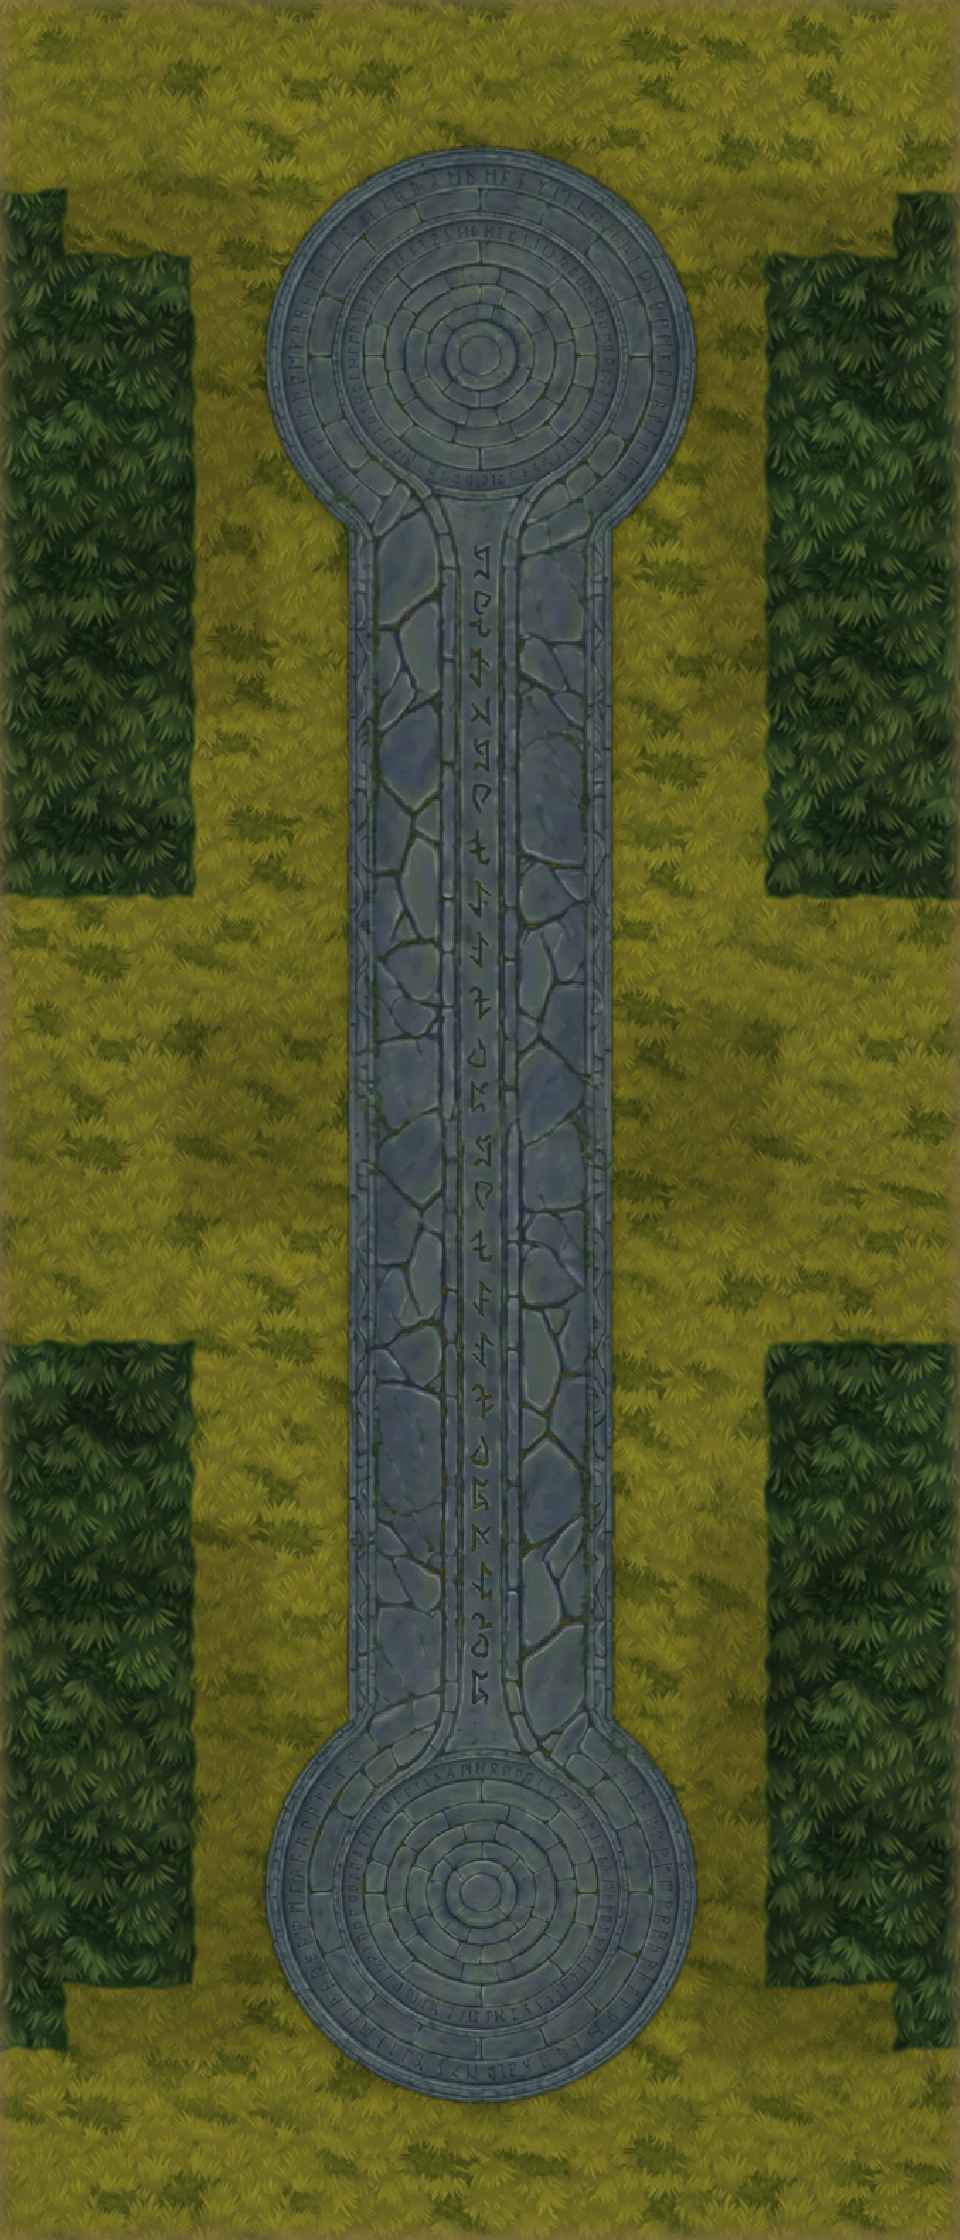
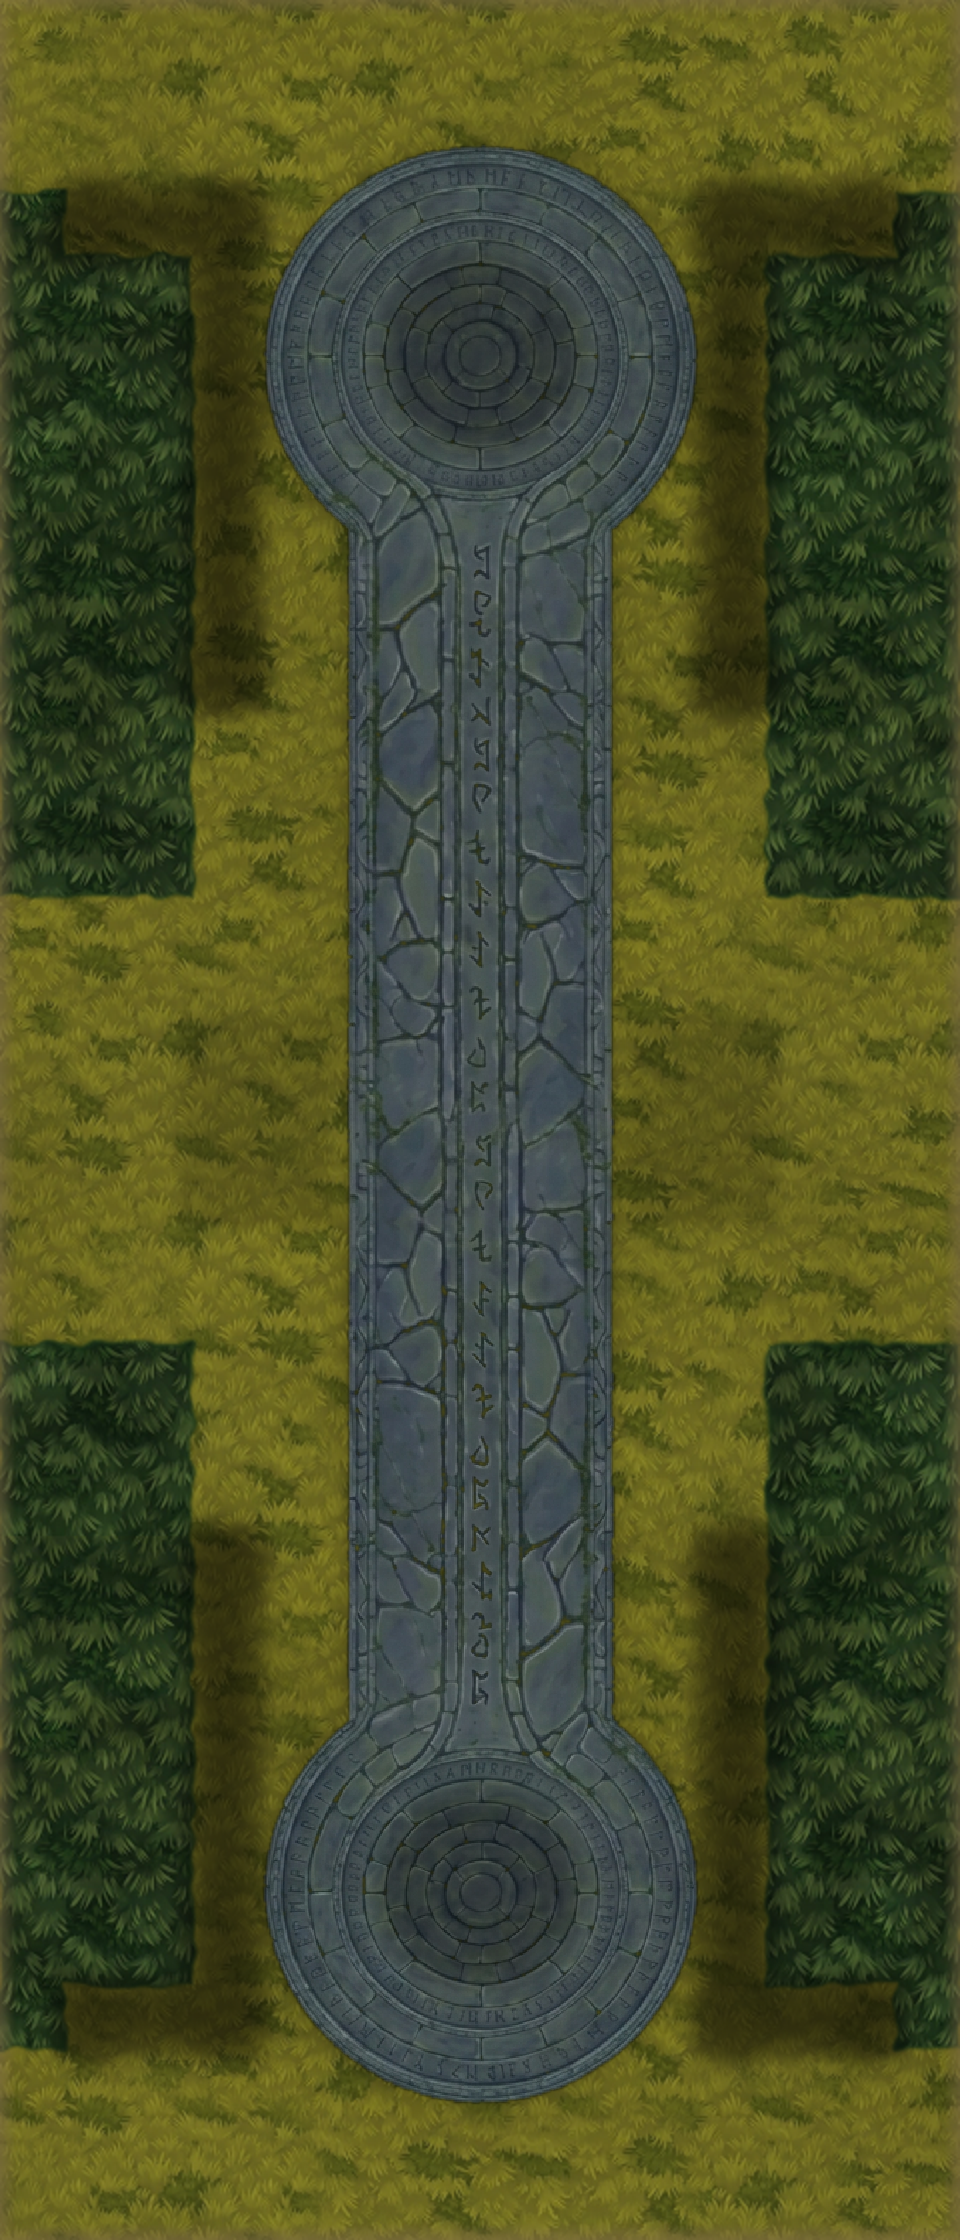
Kartdetaljer: torntorgens runor blinkar i lagfärgen när tornet skjuter (TowerRunes), mjuka kontaktskuggor inbakade i markbilden (v15) och inga hårda fyrkantiga murskuggor på den målade marken; bara bild (Rickard 2026-11-02)
Claude-Session: https://claude.ai/code/session_01M7eBmsdbX5dujjbvcNASSn

diff --git a/Assets/BAM/Art/Arena.cs b/Assets/BAM/Art/Arena.cs
@@ -51,6 +51,7 @@ namespace BAM.Art
             // bushes), baked offline exactly like the old game painted it (bam-work/art/ground/bake.py); only for that map's size
             Texture2D painted = !info.Island && w == 15 && h == 35 ? Resources.Load<Texture2D>("BAMArt/Arena/T_BAM_ArenaGround_v1_2") : null;
             if (painted != null) PaintedGround(root, painted, w, h);
+            if (painted != null) TowerRunes.Build(root);
             Mesh pillarM = Props.Mesh("wallkit_pillar"), beamM = Props.Mesh("wallkit_straight");
             bool kit = pillarM != null && beamM != null && !info.Island;
             Texture2D rockPic = info.Island ? null : Resources.Load<Texture2D>("BAMArt/Arena/T_BAM_Pillar_C");
@@ -72,8 +73,9 @@ namespace BAM.Art
 
                     if (code == TWall && !inRock && kit)
                     {
-                        // Rickard's Meshy wall kit stands here (WallKit below); only the contact shadow on the ground
-                        marks.Color(Pal.ShadowSoft).Face(new Vector3(x0 - 0.2f, 0.012f, z0 - 0.2f), new Vector3(x0 - 0.2f, 0.012f, z1 + 0.2f), new Vector3(x1 + 0.2f, 0.012f, z1 + 0.2f), new Vector3(x1 + 0.2f, 0.012f, z0 - 0.2f));
+                        // Rickard's Meshy wall kit stands here (WallKit below); only the contact shadow on the ground, which the BAM
+                        // arena's painted ground already carries, soft (bam-work/art/karta/detaljer/bake_skuggor.py, 2026-11-02)
+                        if (painted == null) marks.Color(Pal.ShadowSoft).Face(new Vector3(x0 - 0.2f, 0.012f, z0 - 0.2f), new Vector3(x0 - 0.2f, 0.012f, z1 + 0.2f), new Vector3(x1 + 0.2f, 0.012f, z1 + 0.2f), new Vector3(x1 + 0.2f, 0.012f, z0 - 0.2f));
                     }
                     else if (code == TWall && !inRock)
                     {
@@ -630,6 +632,85 @@ namespace BAM.Art
 
     /// <summary>On the arena root: the meshes and materials Arena and Island made for this one arena. Destroying a GameObject
     /// leaves them alive (they are DontSave), so every match and the tutorial's bridge rebuild would keep the old arena's.</summary>
+    /// <summary>
+    /// The carved runes round each tower's plaza light up briefly in the tower's team colour when that tower fires, and only
+    /// then (Rickard 2026-11-01: glowing runes all the time distracted from the fight). Two additive quads over the painted
+    /// ground, one per plaza, with the runes cut out of the ground picture (bam-work/art/karta/detaljer/make_runmask.py);
+    /// each is switched off while dark, so it costs nothing between shots.
+    /// </summary>
+    sealed class TowerRunes : MonoBehaviour
+    {
+        static TowerRunes live;
+        static readonly string[] Pics = { "T_BAM_TowerRunes_Top", "T_BAM_TowerRunes_Bottom" };
+        // each picture is 448 px (7 tiles at 64 px a tile) round its plaza's centre in the 960 x 2240 ground picture: (480, 361) and (480, 1889)
+        static readonly Vector2[] Centre = { new Vector2(7.5f, 35f - 361f / 64f), new Vector2(7.5f, 35f - 1889f / 64f) };
+        const float Size = 7f, Peak = 0.8f, Rise = 0.06f, Fade = 0.55f;
+        readonly Renderer[] quad = new Renderer[2];
+        readonly Material[] mat = new Material[2];
+        readonly float[] age = { 99f, 99f };
+        readonly Color[] tint = new Color[2];
+
+        internal static void Build(GameObject root)
+        {
+            TowerRunes tr = null;
+            for (int i = 0; i < 2; i++)
+            {
+                Texture2D t = Resources.Load<Texture2D>("BAMArt/Arena/" + Pics[i]);
+                if (t == null) continue;
+                if (tr == null) tr = root.AddComponent<TowerRunes>();
+                Vector2 c = Centre[i];
+                float s = Size * 0.5f, y = 0.014f;
+                var mesh = new Mesh { name = Pics[i] };
+                mesh.vertices = new[] { new Vector3(c.x - s, y, c.y - s), new Vector3(c.x - s, y, c.y + s), new Vector3(c.x + s, y, c.y + s), new Vector3(c.x + s, y, c.y - s) };
+                mesh.uv = new[] { new Vector2(0f, 0f), new Vector2(0f, 1f), new Vector2(1f, 1f), new Vector2(1f, 0f) };
+                mesh.normals = new[] { Vector3.up, Vector3.up, Vector3.up, Vector3.up };
+                mesh.triangles = new[] { 0, 1, 2, 0, 2, 3 };
+                mesh.RecalculateBounds();
+                var m = ArtMaterials.Instance(ArtMaterials.UnlitAdd);
+                m.SetTexture(ArtMaterials.BaseMap, t);
+                m.mainTexture = t;
+                m.SetColor(ArtMaterials.BaseColor, Color.black);
+                GameObject go = Arena.Add(root, Pics[i], mesh, m, false);
+                go.isStatic = false;
+                tr.quad[i] = go.GetComponent<Renderer>();
+                tr.quad[i].enabled = false;
+                tr.mat[i] = m;
+            }
+            if (tr != null) { tr.enabled = false; live = tr; }
+        }
+
+        /// <summary>The tower at <paramref name="at"/> fired: its plaza's runes flash in <paramref name="c"/>.</summary>
+        internal static void Pulse(Vector3 at, Color c)
+        {
+            if (live == null) return;
+            int i = Mathf.Abs(at.z - Centre[0].y) <= Mathf.Abs(at.z - Centre[1].y) ? 0 : 1;
+            if (live.quad[i] == null) return;
+            live.age[i] = 0f;
+            live.tint[i] = c;
+            live.quad[i].enabled = true;
+            live.enabled = true;
+        }
+
+        void Update()
+        {
+            bool any = false;
+            for (int i = 0; i < 2; i++)
+            {
+                if (quad[i] == null || !quad[i].enabled) continue;
+                age[i] += Time.deltaTime;
+                if (age[i] >= Rise + Fade) { quad[i].enabled = false; continue; }
+                float k = age[i] < Rise ? age[i] / Rise : 1f - (age[i] - Rise) / Fade;
+                k = Mathf.Clamp01(k) * Peak;
+                Color c = tint[i];
+                mat[i].SetColor(ArtMaterials.BaseColor, new Color(c.r * k, c.g * k, c.b * k, 1f));
+                any = true;
+            }
+            if (!any) enabled = false;
+        }
+
+        void OnDestroy() { if (live == this) live = null; }
+    }
+
     sealed class ArenaOwned : MonoBehaviour
     {
         internal readonly System.Collections.Generic.List<Object> Items = new System.Collections.Generic.List<Object>(128);

diff --git a/Assets/BAM/Game/MatchViews.cs b/Assets/BAM/Game/MatchViews.cs
@@ -574,6 +574,7 @@ namespace BAM.Game
                     // Bonk's club has no shot: it lands e.V s later as an Explosion of ProjKind.BonkClub (cracks and dust)
                     if ((ProjKind)e.Kind == ProjKind.BonkClub) { if (heard) Sound(SfxId.BonkSlamWindup, a, e.Big ? 0.8f : 0.55f); break; }
                     pending.Add(new Pending { A = a.Serial, Src = a, Tgt = e.B, Kind = (ProjKind)e.Kind });
+                    if (a.Kind == UnitKind.Tower) ArtKit.TowerFired(Coords.Of(a), Side(a.Team)); // its plaza's runes flash
                     if (!heard) break;
                     // a tower's shot is heard only when it aims at you (Speltest), sharper from its third shot in a row on you, as its
                     // damage ramps up (Speltest towerHot at towerStreak 2; the rules' TowerRamp resets after TowerRampReset)

diff --git a/Assets/BAM/Art/ArtKit.cs b/Assets/BAM/Art/ArtKit.cs
@@ -439,6 +439,9 @@ namespace BAM.Art
         }
 
         /// <summary>One-shot effect at a world position. size scales it (1 = default for that kind).</summary>
+        /// <summary>A tower fired: the carved runes round its plaza glow briefly in its team's light (Rickard 2026-11-02).</summary>
+        public static void TowerFired(Vector3 tower, int team) => TowerRunes.Pulse(tower, Pal.Get(Pal.TeamLight(team)));
+
         public static void PlayFx(FxKind kind, Vector3 position, float size = 1f, int team = 0, int hero = -1)
         {
             if (!ready) return;

diff --git a/Docs/LICENSES.md b/Docs/LICENSES.md
@@ -48,7 +48,8 @@ Source: graphics thread hand-over 2 (`bam-work/art/HANDOVER-2.md`), byte-identic
 | `Resources/BAMArt/Wolf/Wolf.fbx`, `Wolf_Tex.jpg` (2) | Fenn's spectral wolf, rigged on four legs with its walk (the game's wolf; the still `fenn_wolf` is only a fallback) | Old Speltest `ABC2/Resources/KovaForms/Wolf.fbx` and `Textures/Wolf.png` (2026-10-18/19); the picture scaled to 1024 JPEG by us (2026-10-26) | Rickard via Meshy AI (paid plan), rigged and animated in Meshy | Rickard's own | Courtesy only |
 | `Models/Bonk/Bonk.fbx`, `Bonk_Tex.jpg`, `Resources/BAMArt/Props/bonk_club.bytes`, `bonk_club.jpg` (4) | Bonk (hero 8) and his club; since 2026-10-30 also `UI/Resources/BAM/Menu/special_bonk.png` and `passive_bonk.png`, his skill icons made by Rickard himself (order O-025) | Rickard's Tripo models (2026-10-26); body rigged by Rickard in Mixamo, pelt weights moved to the chest by us; club converted from GLB to the Props format by us | Rickard via Tripo AI (paid plan) + Adobe Mixamo | Rickard's own; Mixamo rig free for commercial use | Courtesy only |
 | `Models/{Hilde,Oaken}/<Hero>.fbx`, `<Hero>_Tex.jpg`, `Models/{Hilde,Oaken}/Anim/*.fbx` (14 clips), `Resources/BAMArt/Props/hilde_cannon.{bytes,jpg}`, `hilde_keg.{bytes,jpg}`, `UI/Resources/BAM/Menu/portrait_{hilde,oaken}.png`, `special_hilde.png`, `passive_hilde.png` (Speltest `AbcUI/ui_abilities_hilde_{special,passive}.png`, copied 2026-10-29) | Hilde (hero 9) and Oaken (hero 10), her cannon and keg, their portraits (2026-10-28) | Copied from Rickard's live Speltest project (Mixamo rigs and clips; portraits rendered by us from the models) | Oaken's body: Rickard's own Meshy stone golem (Speltest thread OAKEN 2026-10-17, body re-done 2026-10-24), rigged on Mixamo; his Walk/Run/Hit are Mixamo Mutant clips, the rest Mixamo. Hilde's clips: Mixamo (Simon's #258 plan, 2026-10-18). Hilde's mesh, her texture and the cannon and keg props: made by Rickard himself in Meshy (Rickard 2026-10-28 20:55 CET) | Rickard's own, made on his paid Meshy account (Rickard confirmed 2026-10-28) | None |
-| `Resources/BAMArt/Arena/T_BAM_ArenaGround_v1_2.png` (1) | The arena floor of the BAM v1.2 map in one picture. Since 2026-11-01 (O-041 stone road with carved, unlit runes and round tower plazas, 960x2240, 64 px per tile): the road comes from Rickard's own Gemini pictures (`bam-work/art/karta/runvag/`), blended with the old baked grass by `bam-work/art/karta/runvag/build_ground.py`. Earlier version: | Baked offline by the arena look thread (`bam-work/art/ground/bake.py`, a port of the old game's `View3DMapArena.ArenaGround11Paint`) from Rickard's Grass, Road2 and Moss tiles above and his Dirt tile (`T_BAM_Ground_Dirt.png`, old register `LICENSES/assets.csv` row 446, not in the build) | Rickard (tiles), baked by us | Same as the arena textures above. | No |
+| `Resources/BAMArt/Arena/T_BAM_ArenaGround_v1_2.png` (1) | The arena floor of the BAM v1.2 map in one picture. Since 2026-11-01 (O-041 stone road with carved, unlit runes and round tower plazas, 960x2240, 64 px per tile): the road comes from Rickard's own Gemini pictures (`bam-work/art/karta/runvag/`), blended with the old baked grass by `bam-work/art/karta/runvag/build_ground.py`; 2026-11-02 (v15) soft contact shadows under walls, pillars and tower bases baked in by `bam-work/art/karta/detaljer/bake_skuggor.py`. Earlier version: | Baked offline by the arena look thread (`bam-work/art/ground/bake.py`, a port of the old game's `View3DMapArena.ArenaGround11Paint`) from Rickard's Grass, Road2 and Moss tiles above and his Dirt tile (`T_BAM_Ground_Dirt.png`, old register `LICENSES/assets.csv` row 446, not in the build) | Rickard (tiles), baked by us | Same as the arena textures above. | No |
+| `Resources/BAMArt/Arena/T_BAM_TowerRunes_{Top,Bottom}.png` (2) | The tower plazas' rune masks that flash in the team colour when the tower fires | Cut from the arena floor above by `bam-work/art/karta/detaljer/make_runmask.py`, 2026-11-02 | Rickard (tiles), baked by us | Same as the arena textures above. | No |
 | `Resources/BAMArt/Props/wallkit_{pillar,straight}.{bytes,jpg}` (4) | Arena wall kit (pillar and straight wall) | Since 2026-11-01: Rickard's own Tripo wall and pillar for the rune road (`bam-work/art/karta/murar-runvag/kit-v1/`, converted by glb2bytes.py to the old pieces' bounds, about 1.4k triangles each). Earlier: Rickard's own Meshy models from his concept art (art/blackbruk), 2026-10-15; old register `LICENSES/assets.csv` rows 65-70; byte copies of the old `AbcModels` files | Rickard via Meshy | Made on Rickard's paid Meshy plan (Rickard 2026-10-25: his Meshy models were made on a paid plan), so customer-owned, no credit required. | Courtesy only |
 | `Resources/BAMArt/Fx/tx_fx_{flash_burst,glow_soft,ground_crack,ground_swirl,light_pillar,particles,shards_burst,shockwave,streak,telegraph_ring}.png`, `tx_fx_nova.png` (11) | Effect pictures for attacks and specials (flash and shockwave flipbooks, glow, sparks, ground crack and swirl, light pillar, rays, nova ring) | Rickard's own effect textures from his Speltest project (`ABC2/Resources/AbcVisuals/Tex/`, 2026-10-25; `tx_fx_nova.png` is his `tx_wow_mage_nova2.png`), copied 2026-10-26 at his request ("ta dom texturerna jag gjort som är för attacker och specials") | Rickard | Rickard's own work; he holds the rights. | Not required |
 | `Resources/BAMArt/Fx/tx_wow_{warrior_impact,sword_slash,mage_blink,priest_shield,mage_shatter,warrior_whirl,magic_circle,priest_runes}.png` (8) | Effect pictures for big hits, Fenn's sword cut, deaths, respawn, level up, wolf summon, Blink, Recall, Shield and Moa's shield breaking | Rickard's own WoW-mode effect pictures from his Speltest project (`ABC2/Resources/AbcVisuals/Tex/tx_wow_*.png`, made 2026-10-21/22), approved for BAM 2026-10-27 ("effektbilderna från wowläget kan jag använda"; nothing of WoW's in them); `spark_cross` gave way to his own hit star the same evening; the other 14 wait in `bam-work/art/speltest-wow-fx` | Rickard | Rickard's own work; he holds the rights. | Not required |
